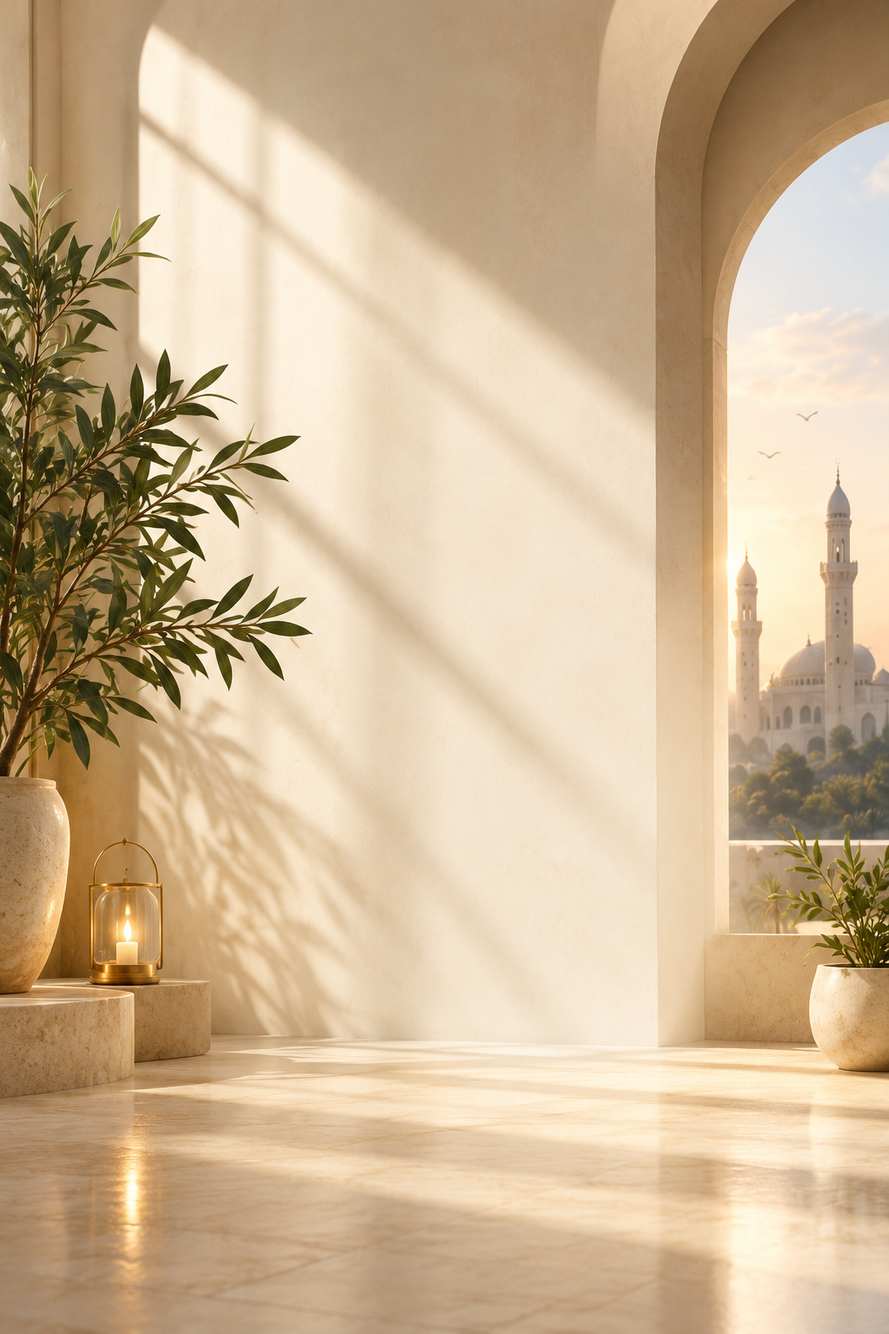
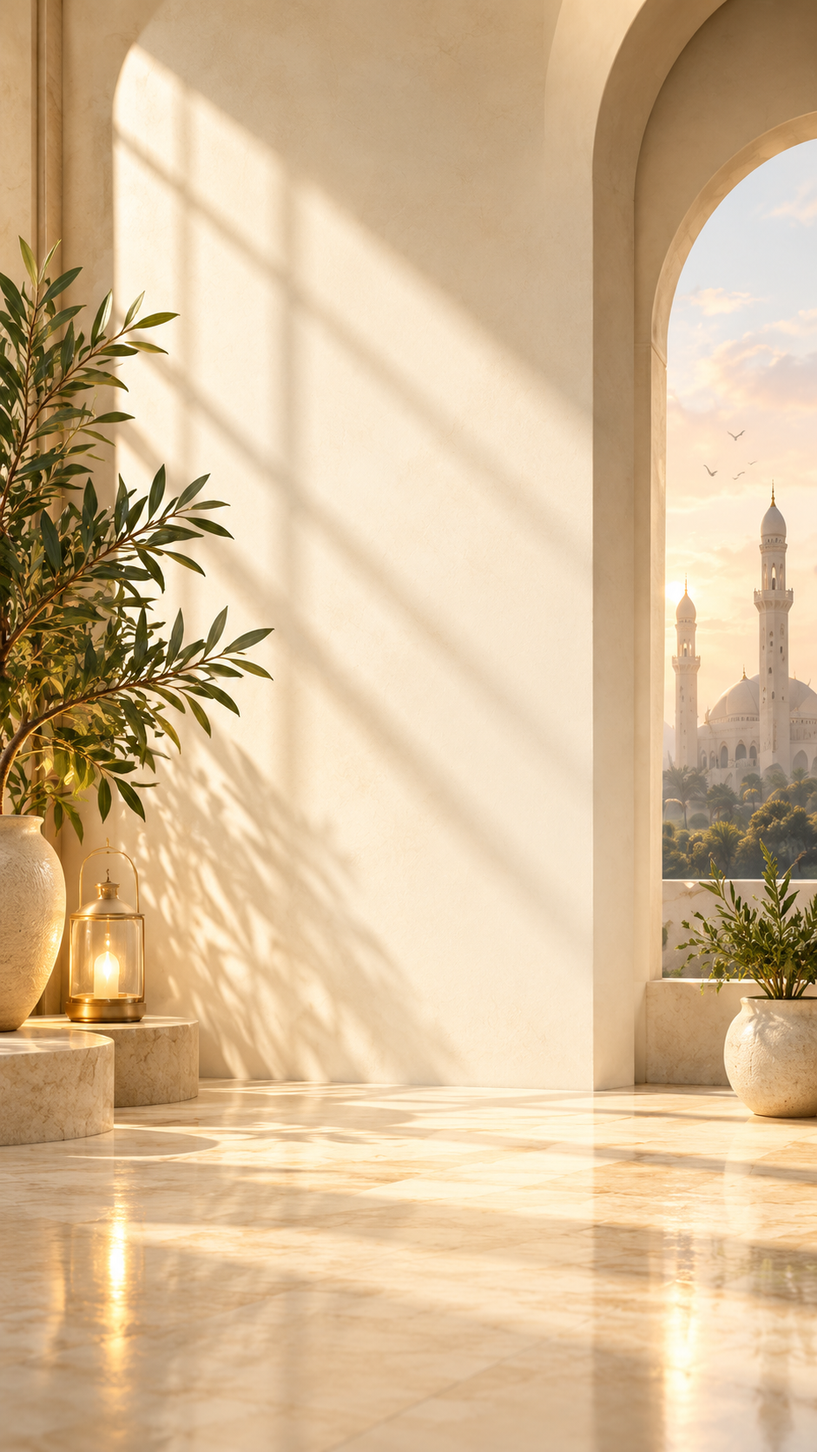
Add files via upload

diff --git a/index.html b/index.html
@@ -193,13 +193,31 @@ body.auth-locked .shell{visibility:hidden;pointer-events:none}
  #authActivation,#authProfile{padding-top:22px}
 }
 
+
+/* Separate water and calorie goal onboarding screens, inspired by the supplied reference */
+.goal-picker{background:linear-gradient(145deg,#fffdf8,#f7f4eb);border:1px solid #f0eadc;border-radius:25px;padding:20px 16px 17px;margin:18px 0 14px;box-shadow:0 10px 28px #17382f08}
+.goal-picker-label{display:flex;align-items:center;justify-content:center;gap:9px;font-size:13px;font-weight:700;color:#142e25;margin-bottom:15px}
+.goal-picker-controls{display:flex;align-items:center;justify-content:space-between;gap:12px}
+.goal-step-btn{width:48px;height:48px;border-radius:50%;border:1px solid #ece6d9;background:#fffaf0;color:#12392f;font-size:25px;display:grid;place-items:center;box-shadow:0 3px 12px #17382f0c}
+.goal-step-btn:active{background:#f7ebd2;transform:scale(.96)}
+.goal-value{flex:1;text-align:center;display:grid;gap:1px;color:#102c23}
+.goal-value strong{font-size:34px;line-height:1.2;font-weight:800;font-variant-numeric:tabular-nums}
+.goal-value span{font-size:12px;color:#65776b}
+.goal-hidden-input{position:absolute!important;width:1px!important;height:1px!important;opacity:0!important;pointer-events:none!important}
+.goal-presets{display:grid;grid-template-columns:repeat(5,minmax(0,1fr));gap:6px;margin-top:16px;direction:ltr}
+.goal-preset{min-width:0;border:1px solid transparent;border-radius:999px;background:#f2f0e7;color:#596b60;padding:10px 3px;font-size:12px;font-weight:500;font-variant-numeric:tabular-nums;white-space:nowrap}
+.goal-preset.active{background:#12392f;color:#fffdf8;border-color:#12392f;box-shadow:0 4px 12px #12392f1c}
+.goal-preset:focus-visible{outline:2px solid #d9ad5b;outline-offset:2px}
+@media(max-width:420px){.goal-picker{padding:18px 12px 14px}.goal-step-btn{width:42px;height:42px}.goal-value strong{font-size:31px}.goal-presets{gap:5px}.goal-preset{font-size:11px;padding:10px 1px}}
+
 </style></head>
 <body class="auth-locked"><div id="loadingScreen" class="loading-screen show" aria-live="polite" aria-hidden="false"><div class="loading-card"><img class="loading-wordmark" src="/assets/monjez-wordmark-transparent.png" alt="شعار منجز"><p class="loading-message">نرتّب يومك، ونقترب من أهدافك</p><div class="loading-track"><i></i></div><div class="loading-dots" aria-hidden="true"><i></i><i></i><i></i></div></div></div><div id="authGate" class="auth-gate"><div class="auth-panel"><div class="auth-brand"><img class="auth-mark" src="/assets/monjez-wordmark-transparent.png" alt="شعار منجز"><div class="auth-brand-copy"><h1>رتّب يومك،<br>واقترب من أهدافك</h1><p>حياة أكثر توازنًا · كل يوم</p></div></div><div id="authActivation"><h2>ابدأ يومك بخطوة</h2><p class="auth-copy">أدخل مفتاح التفعيل للمتابعة إلى مساحتك الشخصية.</p><form id="activationForm"><label class="auth-field"><span>مفتاح التفعيل</span><input id="activationKey" autocomplete="off" autocapitalize="characters" spellcheck="false" placeholder="MNJ-XXXX-XXXX-XXXX-XXXX" required></label><button class="auth-submit" id="activationSubmit" type="submit">متابعة</button></form></div><div id="authProfile" hidden><div class="onboard-progress"><i id="onboardProgressBar"></i></div><div class="onboard-step-label" id="onboardStepLabel">الخطوة ١ من ٥</div><form id="profileForm" novalidate>
 <div class="onboard-step" data-onboard-step="0"><div class="onboard-symbol">✦</div><h2>ما الاسم الذي نناديك به؟</h2><p class="auth-copy">لنبدأ مساحتك الشخصية باسم تحب أن تراه كل يوم.</p><label class="auth-field"><span>اسمك</span><input id="profileFullName" autocomplete="name" maxlength="80" placeholder="اكتب اسمك هنا" required></label></div>
 <div class="onboard-step" data-onboard-step="1" hidden><div class="onboard-symbol">✧</div><h2>متى يوم ميلادك؟</h2><p class="auth-copy">نستخدم التاريخ لإكمال ملفك الشخصي فقط.</p><label class="auth-field"><span>تاريخ الميلاد</span><input id="profileBirthDate" type="date" autocomplete="bday" required></label></div>
 <div class="onboard-step" data-onboard-step="2" hidden><div class="onboard-symbol">⌖</div><h2>أين تقيم؟</h2><p class="auth-copy">نضبط اليوم والوقت وفق المنطقة الزمنية المناسبة لك.</p><label class="auth-field"><span>الدولة</span><select id="profileCountry"><option value="Jordan" selected>الأردن</option></select></label><div class="auth-country-note">المنطقة الزمنية: عمّان · Asia/Amman</div></div>
-<div class="onboard-step" data-onboard-step="3" hidden><div class="onboard-symbol">💧</div><h2>لنضبط أهدافك الصحية</h2><p class="auth-copy">حدد أهدافًا يومية واقعية للماء والسعرات. يمكنك تعديلها لاحقًا من واجهة صحتي.</p><label class="auth-field"><span>هدف شرب الماء (لتر يوميًا)</span><input id="profileWaterGoal" type="number" min="0.5" max="10" step="0.25" value="3" required></label><label class="auth-field"><span>هدف السعرات الحرارية (سعرة يوميًا)</span><input id="profileCalorieGoal" type="number" min="500" max="10000" step="50" value="2000" required></label><p class="auth-country-note">هذه أهداف متابعة شخصية وليست توصية طبية أو غذائية.</p></div>
-<div class="onboard-step" data-onboard-step="4" hidden><div class="onboard-symbol">✳</div><h2>اختر عاداتك الأولى</h2><p class="auth-copy">ابدأ بعادات قليلة تستطيع الاستمرار عليها. يمكنك تعديلها لاحقًا.</p><div id="starterHabits" class="starter-habits"><label class="starter-habit"><input type="checkbox" value="شرب الماء" checked><span>💧</span><b>شرب الماء</b></label><label class="starter-habit"><input type="checkbox" value="قراءة القرآن" checked><span>📖</span><b>قراءة القرآن</b></label><label class="starter-habit"><input type="checkbox" value="المشي أو الرياضة"><span>🚶</span><b>المشي أو الرياضة</b></label><label class="starter-habit"><input type="checkbox" value="أذكار الصباح والمساء" checked><span>🌿</span><b>أذكار الصباح والمساء</b></label><label class="starter-habit"><input type="checkbox" value="القراءة"><span>📚</span><b>القراءة</b></label><label class="starter-habit"><input type="checkbox" value="النوم في موعد ثابت"><span>🌙</span><b>النوم في موعد ثابت</b></label></div><div class="starter-custom"><input id="customStarterHabit" placeholder="أضف عادة من اختيارك"><button type="button" id="addStarterHabit">＋ إضافة</button></div><div id="customStarterList" class="custom-starter-list"></div></div>
+<div class="onboard-step health-goal-step" data-onboard-step="3" hidden><div class="onboard-symbol">💧</div><h2>كمية الماء اليومية</h2><p class="auth-copy">اختر هدف شرب الماء الذي يناسب يومك، ويمكنك تغييره لاحقًا.</p><div class="goal-picker"><div class="goal-picker-label">💧 <span>كمية الماء اليومية</span></div><div class="goal-picker-controls"><button type="button" class="goal-step-btn" data-goal-input="profileWaterGoal" data-step="-0.25" aria-label="تقليل كمية الماء">−</button><div class="goal-value"><strong id="waterGoalDisplay">3.0</strong><span>لتر</span></div><button type="button" class="goal-step-btn" data-goal-input="profileWaterGoal" data-step="0.25" aria-label="زيادة كمية الماء">＋</button></div><input id="profileWaterGoal" class="goal-hidden-input" type="number" min="0.5" max="10" step="0.25" value="3" required><div class="goal-presets" aria-label="كميات الماء المقترحة"><button type="button" class="goal-preset" data-goal-input="profileWaterGoal" data-value="1.5">1.5</button><button type="button" class="goal-preset" data-goal-input="profileWaterGoal" data-value="2">2.0</button><button type="button" class="goal-preset" data-goal-input="profileWaterGoal" data-value="2.5">2.5</button><button type="button" class="goal-preset" data-goal-input="profileWaterGoal" data-value="3">3.0</button><button type="button" class="goal-preset" data-goal-input="profileWaterGoal" data-value="3.5">3.5</button></div></div><p class="auth-country-note">الكميات المقترحة خيارات للتخصيص وليست توصية طبية ثابتة.</p></div>
+<div class="onboard-step health-goal-step" data-onboard-step="4" hidden><div class="onboard-symbol">🔥</div><h2>السعرات الحرارية اليومية</h2><p class="auth-copy">حدد هدف السعرات اليومية الذي تريد متابعته داخل منجز.</p><div class="goal-picker"><div class="goal-picker-label">🔥 <span>السعرات الحرارية اليومية</span></div><div class="goal-picker-controls"><button type="button" class="goal-step-btn" data-goal-input="profileCalorieGoal" data-step="-50" aria-label="تقليل السعرات">−</button><div class="goal-value"><strong id="calorieGoalDisplay">2,000</strong><span>سعرة</span></div><button type="button" class="goal-step-btn" data-goal-input="profileCalorieGoal" data-step="50" aria-label="زيادة السعرات">＋</button></div><input id="profileCalorieGoal" class="goal-hidden-input" type="number" min="500" max="10000" step="50" value="2000" required><div class="goal-presets calorie-presets" aria-label="أهداف السعرات المقترحة"><button type="button" class="goal-preset" data-goal-input="profileCalorieGoal" data-value="1500">1,500</button><button type="button" class="goal-preset" data-goal-input="profileCalorieGoal" data-value="1750">1,750</button><button type="button" class="goal-preset" data-goal-input="profileCalorieGoal" data-value="2000">2,000</button><button type="button" class="goal-preset" data-goal-input="profileCalorieGoal" data-value="2250">2,250</button><button type="button" class="goal-preset" data-goal-input="profileCalorieGoal" data-value="2500">2,500</button></div></div><p class="auth-country-note">الأرقام المقترحة للمتابعة فقط، وليست توصية غذائية شخصية.</p></div>
+<div class="onboard-step" data-onboard-step="5" hidden><div class="onboard-symbol">✳</div><h2>اختر عاداتك الأولى</h2><p class="auth-copy">ابدأ بعادات قليلة تستطيع الاستمرار عليها. يمكنك تعديلها لاحقًا.</p><div id="starterHabits" class="starter-habits"><label class="starter-habit"><input type="checkbox" value="شرب الماء" checked><span>💧</span><b>شرب الماء</b></label><label class="starter-habit"><input type="checkbox" value="قراءة القرآن" checked><span>📖</span><b>قراءة القرآن</b></label><label class="starter-habit"><input type="checkbox" value="المشي أو الرياضة"><span>🚶</span><b>المشي أو الرياضة</b></label><label class="starter-habit"><input type="checkbox" value="أذكار الصباح والمساء" checked><span>🌿</span><b>أذكار الصباح والمساء</b></label><label class="starter-habit"><input type="checkbox" value="القراءة"><span>📚</span><b>القراءة</b></label><label class="starter-habit"><input type="checkbox" value="النوم في موعد ثابت"><span>🌙</span><b>النوم في موعد ثابت</b></label></div><div class="starter-custom"><input id="customStarterHabit" placeholder="أضف عادة من اختيارك"><button type="button" id="addStarterHabit">＋ إضافة</button></div><div id="customStarterList" class="custom-starter-list"></div></div>
 <div class="onboard-actions"><button type="button" class="btn-secondary" id="onboardBack" hidden>السابق</button><button type="button" class="auth-submit" id="onboardNext">التالي</button><button type="submit" class="auth-submit" id="profileSubmit" hidden>إنشاء حسابي</button></div></form></div><div id="authError" class="auth-error" role="alert"></div><div class="auth-foot">بيانات حسابك محفوظة في Google Sheets المرتبط بالتطبيق.</div></div></div><div id="tutorialGate" class="tutorial-gate" hidden><div class="tutorial-panel"><div class="tutorial-art" id="tutorialArt">✦</div><div class="tutorial-dots" id="tutorialDots"><i class="active"></i><i></i><i></i><i></i></div><h2 id="tutorialTitle">أهلًا بك في منجز</h2><p id="tutorialText">مساحتك اليومية لتنظيم ما يهمك.</p><div class="tutorial-actions"><button type="button" class="btn-secondary" id="tutorialBack" hidden>السابق</button><button type="button" class="btn-primary" id="tutorialNext">التالي</button></div></div></div><div class="shell">
 <aside class="sidebar"><div class="brand"><img class="brandmark" src="/assets/monjez-icon-512.png" alt="أيقونة منجز" width="44" height="44"><div class="brandname">منجز<small>كل يوم أفضل</small></div></div>
 <div><p class="side-label">مساحتك الشخصية</p><nav class="navgroup" id="sideNav">
@@ -270,10 +288,12 @@ $$('[data-view]').forEach(b=>b.addEventListener('click',()=>{if(b.id==='mobileMo
 function setAuthError(message){$('#authError').textContent=message||''}
 let onboardingStep=0,customStarterHabits=[];
 function showActivation(){document.body.classList.add('auth-locked');$('#authGate').hidden=false;$('#authActivation').hidden=false;$('#authProfile').hidden=true;setAuthError('')}
-function renderOnboardingStep(){ $$('.onboard-step').forEach((el,i)=>el.hidden=i!==onboardingStep);$('#onboardStepLabel').textContent='الخطوة '+['١','٢','٣','٤','٥'][onboardingStep]+' من ٥';$('#onboardProgressBar').style.width=((onboardingStep+1)*20)+'%';$('#onboardBack').hidden=onboardingStep===0;$('#onboardNext').hidden=onboardingStep===4;$('#profileSubmit').hidden=onboardingStep!==4;setAuthError('');if(onboardingStep===0)$('#profileFullName').focus({preventScroll:true});}
+function renderOnboardingStep(){ $$('.onboard-step').forEach((el,i)=>el.hidden=i!==onboardingStep);$('#onboardStepLabel').textContent='الخطوة '+['١','٢','٣','٤','٥','٦'][onboardingStep]+' من ٦';$('#onboardProgressBar').style.width=((onboardingStep+1)/6*100)+'%';$('#onboardBack').hidden=onboardingStep===0;$('#onboardNext').hidden=onboardingStep===5;$('#profileSubmit').hidden=onboardingStep!==5;refreshGoalPickers();setAuthError('');if(onboardingStep===0)$('#profileFullName').focus({preventScroll:true});}
 function showProfileSetup(){document.body.classList.add('auth-locked');$('#authGate').hidden=false;$('#authActivation').hidden=true;$('#authProfile').hidden=false;onboardingStep=0;customStarterHabits=[];$('#customStarterList').innerHTML='';renderOnboardingStep();setAuthError('')}
 function selectedStarterHabits(){return [...new Set([...$$('#starterHabits input:checked').map(x=>x.value),...customStarterHabits])].filter(Boolean)}
-$('#onboardNext').addEventListener('click',()=>{if(onboardingStep===0&&$('#profileFullName').value.trim().length<2)return setAuthError('اكتب اسمًا من حرفين على الأقل.');if(onboardingStep===1){const v=$('#profileBirthDate').value;if(!v||new Date(v+'T12:00:00')>new Date())return setAuthError('اختر تاريخ ميلاد صحيحًا.')}if(onboardingStep===3){const water=+$('#profileWaterGoal').value,cal=+$('#profileCalorieGoal').value;if(!Number.isFinite(water)||water<0.5||water>10)return setAuthError('اختر هدف ماء بين 0.5 و10 لترات.');if(!Number.isFinite(cal)||cal<500||cal>10000)return setAuthError('اختر هدف سعرات بين 500 و10000.')}if(onboardingStep<4){onboardingStep++;renderOnboardingStep()}});
+function refreshGoalPickers(){const water=+$('#profileWaterGoal').value||3,cal=+$('#profileCalorieGoal').value||2000;$('#waterGoalDisplay').textContent=water.toFixed(1);$('#calorieGoalDisplay').textContent=Math.round(cal).toLocaleString('en-US');$$('.goal-preset').forEach(b=>{const input=$('#'+b.dataset.goalInput);b.classList.toggle('active',Math.abs((+input.value)-(+b.dataset.value))<0.001)})}
+document.addEventListener('click',e=>{const b=e.target.closest('[data-goal-input]');if(!b)return;const input=$('#'+b.dataset.goalInput);if(!input)return;let value=+input.value||+input.defaultValue;if(b.dataset.value!==undefined)value=+b.dataset.value;else value+=+b.dataset.step;value=Math.max(+input.min,Math.min(+input.max,value));const step=+input.step||1;value=Math.round(value/step)*step;input.value=String(value);refreshGoalPickers()});
+$('#onboardNext').addEventListener('click',()=>{if(onboardingStep===0&&$('#profileFullName').value.trim().length<2)return setAuthError('اكتب اسمًا من حرفين على الأقل.');if(onboardingStep===1){const v=$('#profileBirthDate').value;if(!v||new Date(v+'T12:00:00')>new Date())return setAuthError('اختر تاريخ ميلاد صحيحًا.')}if(onboardingStep===3){const water=+$('#profileWaterGoal').value;if(!Number.isFinite(water)||water<0.5||water>10)return setAuthError('اختر هدف ماء بين 0.5 و10 لترات.')}if(onboardingStep===4){const cal=+$('#profileCalorieGoal').value;if(!Number.isFinite(cal)||cal<500||cal>10000)return setAuthError('اختر هدف سعرات بين 500 و10000.')}if(onboardingStep<5){onboardingStep++;renderOnboardingStep()}});
 $('#onboardBack').addEventListener('click',()=>{if(onboardingStep>0){onboardingStep--;renderOnboardingStep()}});
 $('#addStarterHabit').addEventListener('click',()=>{const input=$('#customStarterHabit'),name=input.value.trim();if(!name)return;if(name.length>45)return setAuthError('اجعل اسم العادة أقصر من ٤٥ حرفًا.');if(selectedStarterHabits().includes(name))return setAuthError('هذه العادة موجودة بالفعل.');customStarterHabits.push(name);const chip=document.createElement('span');chip.textContent='✦ '+name;$('#customStarterList').appendChild(chip);input.value='';setAuthError('')});
 function authBusy(busy){$('.auth-panel').classList.toggle('auth-loading',busy);$('#activationSubmit').disabled=busy;$('#profileSubmit').disabled=busy}
@@ -284,7 +304,7 @@ function loadAccountState(){if(!state.daily)state.daily={};if(!state.profile)sta
 let loadingShownAt=0,loadingHideTimer=null;const LOADING_MIN_MS=1400;function showLoading(){const el=$('#loadingScreen');if(!el)return;if(loadingHideTimer){clearTimeout(loadingHideTimer);loadingHideTimer=null}if(!loadingShownAt)loadingShownAt=Date.now();el.hidden=false;el.style.display='flex';el.style.opacity='1';el.setAttribute('aria-hidden','false');el.classList.add('show')}function hideLoading(){const el=$('#loadingScreen');if(!el)return;const elapsed=Date.now()-loadingShownAt,wait=Math.max(0,LOADING_MIN_MS-elapsed);if(loadingHideTimer)clearTimeout(loadingHideTimer);loadingHideTimer=setTimeout(()=>{el.classList.remove('show');el.setAttribute('aria-hidden','true');el.style.display='none';loadingHideTimer=null},wait)}function callServer(method,args,success,failure){fetch('/api/monjez',{method:'POST',headers:{'Content-Type':'application/json'},body:JSON.stringify({method,args})}).then(async response=>{let payload;try{payload=await response.json()}catch(e){throw new Error('استجابة غير مفهومة من الخادم.')}if(!response.ok||!payload||payload.ok!==true)throw new Error(payload&&payload.error?payload.error:'تعذر إكمال الطلب.');return payload.result}).then(success).catch(err=>failure(err instanceof Error?err:new Error(String(err&&err.message||err||'حدث خطأ غير متوقع.'))))}
 function fetchAndEnter(session,profile){showLoading();callServer('getMonjezData',[session.accountId,session.licenseId,deviceId],remote=>{hideLoading();enterAccount(session,profile,remote)},err=>{hideLoading();authBusy(false);try{const cached=JSON.parse(localStorage.getItem('monjez_pro_v1_'+session.accountId)||'null');if(cached&&cached.version===3){currentSession=session;key='monjez_pro_v1_'+session.accountId;state=merge(initial(),cached);state.profile={...state.profile,...(profile||{}),lang:'ar',dark:false,country:'Jordan',timezone:'Asia/Amman'};loadAccountState();$('#authGate').hidden=true;document.body.classList.remove('auth-locked');render();go('home');toast('تم فتح بياناتك المحفوظة على هذا الجهاز');return}}catch(e){}showActivation();setAuthError('تعذر الاتصال بالخادم. ستبقى جلستك محفوظة؛ حاول مجددًا دون إعادة التفعيل.')})}
 $('#activationForm').addEventListener('submit',e=>{e.preventDefault();const activationKey=$('#activationKey').value.trim().toUpperCase();if(!activationKey)return;authBusy(true);showLoading();setAuthError('');callServer('activateMonjez',[activationKey,deviceId],result=>{hideLoading();authBusy(false);if(!result||!result.ok){setAuthError('تعذر التحقق من مفتاح التفعيل.');return}pendingActivation={activationKey,accountId:result.accountId,licenseId:result.licenseId};if(result.needsProfile){showProfileSetup();return}const session={accountId:result.accountId,licenseId:result.licenseId,installId:deviceId};fetchAndEnter(session,result.profile)},err=>{hideLoading();authBusy(false);setAuthError(err.message||'تعذر التحقق من مفتاح التفعيل.')})});
-$('#profileForm').addEventListener('submit',e=>{e.preventDefault();if(!pendingActivation||onboardingStep!==4)return;const profile={name:$('#profileFullName').value.trim(),birthDate:$('#profileBirthDate').value,country:$('#profileCountry').value,waterGoal:Math.max(.5,Math.min(10,+$('#profileWaterGoal').value||3)),calorieGoal:Math.max(500,Math.min(10000,+$('#profileCalorieGoal').value||2000)),onboardingComplete:true,tutorialDone:false};const starter=selectedStarterHabits();authBusy(true);showLoading();setAuthError('');callServer('completeMonjezProfile',[pendingActivation.activationKey,pendingActivation.accountId,profile,deviceId],result=>{hideLoading();authBusy(false);const session={accountId:result.accountId,licenseId:result.licenseId,installId:deviceId};pendingActivation=null;const goEnter=remote=>{enterAccount(session,result.profile,remote);state.tasks=[];state.projects=[];state.habits=starter.map(name=>({id:uid('h'),name,icon:'✦',logs:{}}));state.goals=[];state.supplements=state.supplements||[];state.profile.waterGoal=profile.waterGoal;state.profile.calorieGoal=profile.calorieGoal;save();render();showTutorial()};callServer('getMonjezData',[session.accountId,session.licenseId,deviceId],remote=>goEnter(remote),()=>goEnter(null))},err=>{hideLoading();authBusy(false);setAuthError(err.message||'تعذر إنشاء الحساب.')})});
+$('#profileForm').addEventListener('submit',e=>{e.preventDefault();if(!pendingActivation||onboardingStep!==5)return;const profile={name:$('#profileFullName').value.trim(),birthDate:$('#profileBirthDate').value,country:$('#profileCountry').value,waterGoal:Math.max(.5,Math.min(10,+$('#profileWaterGoal').value||3)),calorieGoal:Math.max(500,Math.min(10000,+$('#profileCalorieGoal').value||2000)),onboardingComplete:true,tutorialDone:false};const starter=selectedStarterHabits();authBusy(true);showLoading();setAuthError('');callServer('completeMonjezProfile',[pendingActivation.activationKey,pendingActivation.accountId,profile,deviceId],result=>{hideLoading();authBusy(false);const session={accountId:result.accountId,licenseId:result.licenseId,installId:deviceId};pendingActivation=null;const goEnter=remote=>{enterAccount(session,result.profile,remote);state.tasks=[];state.projects=[];state.habits=starter.map(name=>({id:uid('h'),name,icon:'✦',logs:{}}));state.goals=[];state.supplements=state.supplements||[];state.profile.waterGoal=profile.waterGoal;state.profile.calorieGoal=profile.calorieGoal;save();render();showTutorial()};callServer('getMonjezData',[session.accountId,session.licenseId,deviceId],remote=>goEnter(remote),()=>goEnter(null))},err=>{hideLoading();authBusy(false);setAuthError(err.message||'تعذر إنشاء الحساب.')})});
 const tutorialSlides=[
  {icon:'◉',title:'هذه نسبة إنجاز يومك',text:'تتغيّر النسبة تلقائيًا مع الصلوات والأذكار والعادات والمهام وورد القرآن. شاهد الدائرة وهي تلخّص يومك.',view:'home',target:'#mainRing',hint:'كلما أكملت عنصرًا ارتفعت نسبة إنجازك.'},
  {icon:'☾',title:'بطاقة صلاتي',text:'افتح مساحة العبادات ثم سجّل كل صلاة بعد أدائها. ستشاهد عدّاد الصلوات يتقدم حتى ٥ من ٥.',view:'worship',target:'#view-worship .worship-grid .card:first-child',hint:'اضغط على اسم الصلاة لتسجيلها، ويتحدث عدّادك مباشرة.'},

diff --git a/README.md b/README.md
@@ -1,4 +1,4 @@
-# منجز — GitHub + Vercel
+# منجز Pro — GitHub + Vercel
 
 واجهة منجز تُنشر على Vercel، مع إبقاء Google Sheets قاعدة البيانات وGoogle Apps Script كخدمة خلفية. الواجهة لا تستخدم `google.script.run`؛ بل تستدعي `/api/monjez`، وتقوم وظيفة Vercel باستدعاء Google Apps Script من جهة الخادم.
 
